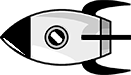
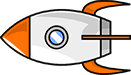
Changing colors & Adding PowerUp Images

diff --git a/Adventure/src/adventure/MeteorShowerRM.java b/Adventure/src/adventure/MeteorShowerRM.java
@@ -20,8 +20,6 @@ public class MeteorShowerRM extends World {
     
 // ============= TO DO STILL ============= 
 // 1. Explosions --> they don't show up always
-// 2. Translate all of this to the hyper mode so that it works too
-// 3. Add powerUp Symbols
 // 4. Create a start and end screen
 // =======================================
 
@@ -228,7 +226,15 @@ public class MeteorShowerRM extends World {
     }
 
     public boolean getPowerUp() {
-        return this.correctShootCounter == 20;
+        return this.correctShootCounter % 9 == 0 && correctShootCounter != 0;
+    }
+    
+    public int showPowerUp() {
+        return this.powerUp;
+    }
+    
+    public WorldImage drawPowerUp(int width, int height) {
+        return new FromFileImage(new Posn(width, height), "powerUp.png");
     }
 
     // ========== DRAWING IMAGE ==========
@@ -273,17 +279,21 @@ public class MeteorShowerRM extends World {
         finalImage = new OverlayImages(finalImage, score2);
         
         // Drawing Lives
-        switch (lives.life) {
-            case 1: finalImage = new OverlayImages(finalImage,lives.livesImage(30,60));
+        finalImage = this.lives.draw(finalImage);
+        
+        // Drawing powerUP
+        switch(showPowerUp()) {
+            case 0 : break;
+            case 1 : finalImage = new OverlayImages(finalImage, drawPowerUp(30,85));
                 break;
-            case 2: finalImage = new OverlayImages(finalImage,lives.livesImage(30,60));
-                    finalImage = new OverlayImages(finalImage,lives.livesImage(55,60));
+            case 2: finalImage = new OverlayImages(finalImage,drawPowerUp(30,85));
+                    finalImage = new OverlayImages(finalImage,drawPowerUp(55,85));
                 break;
-            case 3: finalImage = new OverlayImages(finalImage,lives.livesImage(30,60));
-                     finalImage = new OverlayImages(finalImage,lives.livesImage(55,60));
-                      finalImage = new OverlayImages(finalImage,lives.livesImage(80,60));
+            case 3: finalImage = new OverlayImages(finalImage,drawPowerUp(30,85));
+                     finalImage = new OverlayImages(finalImage,drawPowerUp (55,85));
+                      finalImage = new OverlayImages(finalImage,drawPowerUp(80,85));
         }
-       
+        
         return finalImage;
     }
 }

diff --git a/Adventure/src/adventure/Lives.java b/Adventure/src/adventure/Lives.java
@@ -2,6 +2,7 @@
 package adventure;
 
 import javalib.worldimages.FromFileImage;
+import javalib.worldimages.OverlayImages;
 import javalib.worldimages.Posn;
 import javalib.worldimages.WorldImage;
 
@@ -29,8 +30,25 @@ public class Lives {
         return this.life <= 0;
     }
    
-    // NEED TO IMPLEMENT
-    public void draw () {
+   
+    public WorldImage draw (WorldImage finalImage) {
+        WorldImage finalImage2 = finalImage;
+        switch (life) {
+            case 0:
+                break;
+            case 1: finalImage2 = new OverlayImages(finalImage, livesImage(30,60));
+                break;
+            case 2: finalImage2 = new OverlayImages(finalImage,livesImage(30,60));
+                    finalImage2 = new OverlayImages(finalImage2,livesImage(55,60));
+                break;
+            case 3: finalImage2 = new OverlayImages(finalImage, livesImage(30,60));
+                     finalImage2 = new OverlayImages(finalImage2, livesImage(55,60));
+                      finalImage2 = new OverlayImages(finalImage2, livesImage(80,60));
+                break;
+            default:
+                break;
+        }
+        return finalImage2;
     }
     
     public WorldImage livesImage(int width, int height) {
